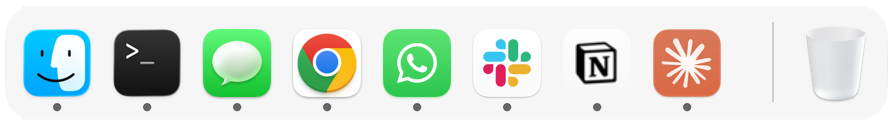
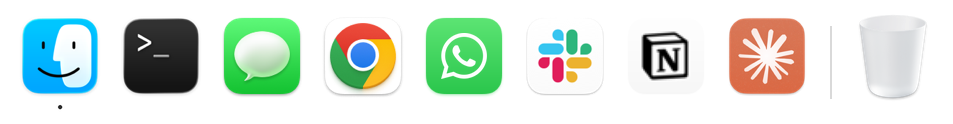
fix(site): clear Tahoe Dock glass
Near-clear glass with a thin light rim, rounder corners and Tahoe spacing, a dot under Finder only; drops the misfitting blur layer.

diff --git a/client/components/landing/AppTour.tsx b/client/components/landing/AppTour.tsx
@@ -50,8 +50,8 @@ const PILL_BOTTOM = 80;
 const PILL_HEIGHT = 40;
 const WINDOW_BOTTOM = PILL_BOTTOM + PILL_HEIGHT + 12;
 const MARGIN = 12;
-// dock.png is 893 x 123 at 2x.
-const DOCK = { w: 446.5, h: 61.5 };
+// dock.png is 953 x 124 at 2x.
+const DOCK = { w: 476.5, h: 62 };
 
 // Which scene the page is scrolled to: the track's scroll range is split
 // evenly between the scenes while its sticky stage is pinned.
@@ -264,14 +264,16 @@ export function AppTour() {
                 />
               ))}
               <Pill listening={phase === "listening"} />
-              {/* The real Tahoe Dock: its glass, captured, with the apps' own icons. The glass blurs what is behind it. */}
-              <div
-                className="absolute bottom-[3px] left-1/2 -translate-x-1/2"
-                style={{ width: `min(${DOCK.w}px, 100% - 16px)`, aspectRatio: `${DOCK.w} / ${DOCK.h}` }}
-              >
-                <span className="absolute inset-x-[0.5%] top-[5%] bottom-[2.5%] rounded-[30%/50%] backdrop-blur-xl backdrop-saturate-150" />
-                <Image src="/app/dock.png" alt="" fill unoptimized className="relative" />
-              </div>
+              {/* The Tahoe Dock in light mode: clear glass with the apps' own icons. */}
+              <Image
+                src="/app/dock.png"
+                alt=""
+                width={DOCK.w}
+                height={DOCK.h}
+                unoptimized
+                className="absolute bottom-[6px] left-1/2 h-auto -translate-x-1/2"
+                style={{ width: `min(${DOCK.w}px, 100% - 16px)` }}
+              />
             </div>
           )}
         </figure>
